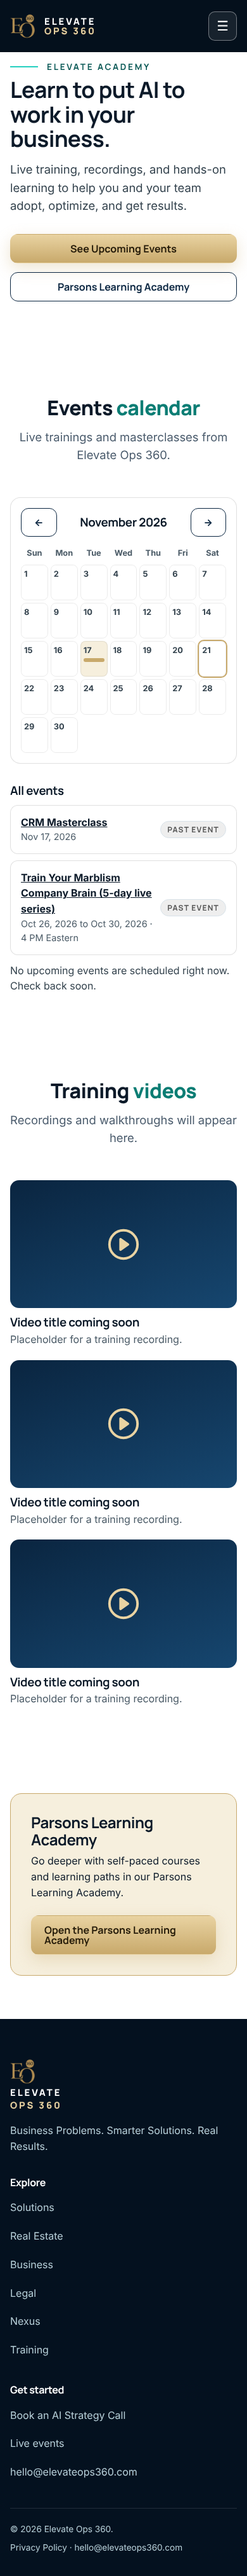
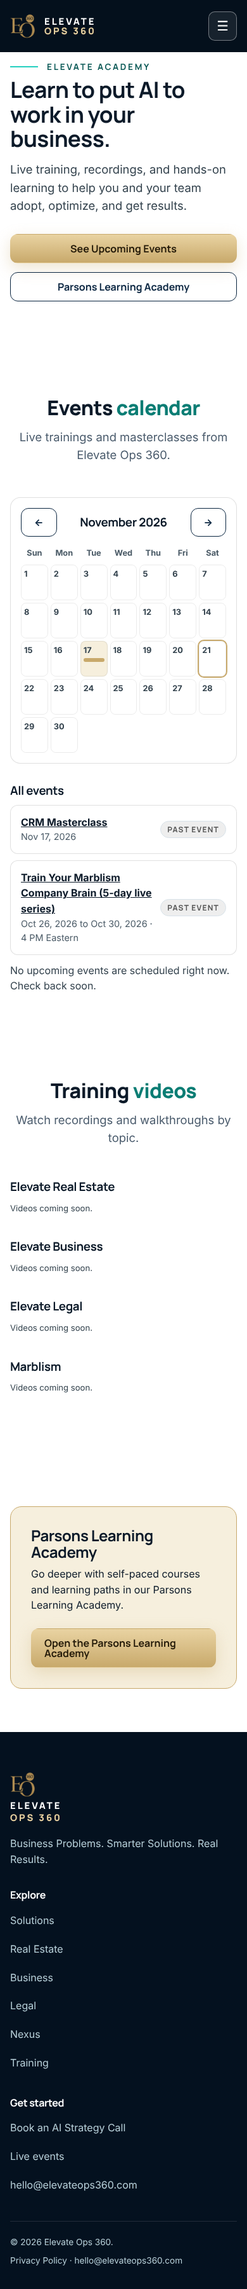
Academy: learn.parsonsregroup.com link, JSON-driven YouTube video sections, content helper page
Claude-Session: https://claude.ai/code/session_01FHNhpcz1vSgsRca8SZZPd6

diff --git a/academy/admin/index.html b/academy/admin/index.html
@@ -1,0 +1,87 @@
+<!DOCTYPE html>
+<html lang="en">
+<head>
+<meta charset="utf-8">
+<meta name="viewport" content="width=device-width, initial-scale=1">
+<title>Academy Content Helper | Elevate Ops 360</title>
+<meta name="description" content="Events calendar, training videos, and a link to the Parsons Learning Academy from Elevate Ops 360.">
+<meta name="robots" content="noindex,nofollow">
+<link rel="preload" href="/fonts/manrope-latin-wght-normal.woff2" as="font" type="font/woff2" crossorigin>
+<link rel="preload" href="/fonts/inter-latin-wght-normal.woff2" as="font" type="font/woff2" crossorigin>
+<link rel="stylesheet" href="/styles.css">
+<link rel="stylesheet" href="/qa-fixes.css">
+<link rel="stylesheet" href="/hybrid.css">
+<link rel="stylesheet" href="/solutions.css">
+<link rel="stylesheet" href="/academy/academy.css">
+<link rel="icon" type="image/png" href="/assets/favicon-official-64.png">
+</head>
+<body>
+<!-- Icon sprite -->
+<svg width="0" height="0" style="position:absolute" aria-hidden="true">
+  <symbol id="i-user" viewBox="0 0 24 24"><circle cx="9" cy="8" r="3.5"/><path d="M2.5 20c.6-3.6 3.3-5.5 6.5-5.5s5.9 1.9 6.5 5.5M18 8v6M15 11h6"/></symbol>
+  <symbol id="i-chat" viewBox="0 0 24 24"><path d="M4 5h16v11H10l-4.5 3.5V16H4z"/><path d="M8.5 10.5h.01M12 10.5h.01M15.5 10.5h.01"/></symbol>
+  <symbol id="i-layers" viewBox="0 0 24 24"><path d="m12 3 9 4.5-9 4.5-9-4.5z"/><path d="m3 12 9 4.5 9-4.5M3 16.5 12 21l9-4.5"/></symbol>
+  <symbol id="i-cal" viewBox="0 0 24 24"><rect x="3.5" y="5" width="17" height="15" rx="2.5"/><path d="M3.5 10h17M8 3v4M16 3v4M9 15l2.2 2.2L15.5 13"/></symbol>
+  <symbol id="i-bolt" viewBox="0 0 24 24"><path d="M13 2.5 5 13.5h6l-1 8 8-11h-6z"/></symbol>
+  <symbol id="i-chart" viewBox="0 0 24 24"><path d="M4 20V10M10 20V4M16 20v-8M22 20H2"/></symbol>
+  <symbol id="i-brief" viewBox="0 0 24 24"><rect x="3" y="7" width="18" height="13" rx="2.5"/><path d="M8.5 7V5a1.5 1.5 0 0 1 1.5-1.5h4A1.5 1.5 0 0 1 15.5 5v2M3 13h18"/></symbol>
+  <symbol id="i-home" viewBox="0 0 24 24"><path d="m3 11 9-7.5 9 7.5M5.5 9.5V20h13V9.5M10 20v-6h4v6"/></symbol>
+  <symbol id="i-scale" viewBox="0 0 24 24"><path d="M12 3v18M7 21h10M5 7h14M5 7l-3 7a3.5 3.5 0 0 0 6 0zM19 7l-3 7a3.5 3.5 0 0 0 6 0z"/></symbol>
+  <symbol id="i-cap" viewBox="0 0 24 24"><path d="m2 9 10-5 10 5-10 5z"/><path d="M6 11.5V16c0 1.4 2.7 3 6 3s6-1.6 6-3v-4.5M22 9v6"/></symbol>
+  <symbol id="i-play" viewBox="0 0 24 24"><circle cx="12" cy="12" r="9.5"/><path d="m10 8.5 5 3.5-5 3.5z" fill="currentColor"/></symbol>
+  <symbol id="i-arrow" viewBox="0 0 24 24"><path d="M4 12h16M14 6l6 6-6 6"/></symbol>
+  <symbol id="i-check" viewBox="0 0 24 24"><circle cx="12" cy="12" r="9.5"/><path d="m8 12.3 2.8 2.8L16 9.5"/></symbol>
+  <symbol id="i-grid" viewBox="0 0 24 24"><rect x="3.5" y="3.5" width="7" height="7" rx="1.5"/><rect x="13.5" y="3.5" width="7" height="7" rx="1.5"/><rect x="3.5" y="13.5" width="7" height="7" rx="1.5"/><rect x="13.5" y="13.5" width="7" height="7" rx="1.5"/></symbol>
+  <symbol id="i-funnel" viewBox="0 0 24 24"><path d="M3 4h18l-7 8.5V20l-4-2v-5.5z"/></symbol>
+  <symbol id="i-gear" viewBox="0 0 24 24"><circle cx="12" cy="12" r="3.2"/><path d="M12 2.5v3M12 18.5v3M2.5 12h3M18.5 12h3M5.3 5.3l2.1 2.1M16.6 16.6l2.1 2.1M18.7 5.3l-2.1 2.1M7.4 16.6l-2.1 2.1"/></symbol>
+  <symbol id="i-bot" viewBox="0 0 24 24"><rect x="4" y="8" width="16" height="11" rx="3"/><path d="M12 4v4M9 13.5h.01M15 13.5h.01M9 16.5h6"/></symbol>
+  <symbol id="i-plug" viewBox="0 0 24 24"><path d="M9 3v5M15 3v5M6 8h12v3a6 6 0 0 1-12 0zM12 17v4"/></symbol>
+  <symbol id="i-doc" viewBox="0 0 24 24"><path d="M6 3h8l4 4v14H6z"/><path d="M14 3v4h4M9 12h6M9 16h6"/></symbol>
+  <symbol id="i-search" viewBox="0 0 24 24"><circle cx="11" cy="11" r="6.5"/><path d="m16 16 5 5"/></symbol>
+  <symbol id="i-people" viewBox="0 0 24 24"><circle cx="9" cy="8" r="3.2"/><circle cx="17" cy="9.5" r="2.5"/><path d="M2.5 20c.5-3.4 3-5.2 6.5-5.2s6 1.8 6.5 5.2M16 14.6c2.6.1 4.6 1.5 5 4.4"/></symbol>
+  <symbol id="i-shield" viewBox="0 0 24 24"><path d="M12 3 4.5 6v6c0 4.6 3.2 7.8 7.5 9 4.3-1.2 7.5-4.4 7.5-9V6z"/><path d="m9 12 2.2 2.2L15.5 10"/></symbol>
+</svg>
+
+
+<a class="skip" href="#main">Skip to main content</a>
+<header class="site-header">
+  <nav class="wrap nav" aria-label="Primary">
+    <a class="brand" href="/" aria-label="Elevate Ops 360 home"><img src="/assets/mark-official-108.png" alt="" width="54" height="52"><span class="brand-text">Elevate <span>Ops 360</span></span></a>
+    <button class="menu-btn" aria-expanded="false" aria-controls="primary-nav" aria-label="Open menu">&#9776;</button>
+    <ul class="nav-links" id="primary-nav">
+      <li><a href="/solutions/">Solutions</a></li>
+      <li><a href="/solutions/real-estate/">Real Estate</a></li>
+      <li><a href="/solutions/business/">Business</a></li>
+      <li><a href="/solutions/legal/">Legal</a></li>
+      <li><a href="/#nexus">Nexus</a></li>
+      <li><a href="/academy/">Academy</a></li>
+      <li class="nav-cta-m"><a class="btn btn-gold btn-sm" href="https://calendly.com/sherriparsonsrealestate/elevate-ai-onboarding">Book an AI Strategy Call</a></li>
+    </ul>
+    <a class="btn btn-gold nav-cta" href="https://calendly.com/sherriparsonsrealestate/elevate-ai-onboarding"><svg class="icon"><use href="#i-cal"/></svg>Book an AI Strategy Call</a>
+  </nav>
+</header>
+<main id="main" tabindex="-1"><section class="sec adm"><div class="wrap">
+<h1>Academy content helper</h1>
+<p>Add events and YouTube videos here, then copy the result into <code>academy/content.json</code> (GitHub: open the file, click the pencil, paste, commit). The Academy page updates after the site redeploys. This page does not save anything by itself.</p>
+<div class="box"><h2>Add a video</h2>
+<label for="vs">Section</label><select id="vs"></select>
+<label for="vu">YouTube link</label><input id="vu" placeholder="https://www.youtube.com/watch?v=...">
+<label for="vt">Title</label><input id="vt"><label for="vd">Short description (optional)</label><input id="vd">
+<p><button type="button" class="btn btn-gold" id="addv">Add video</button></p></div>
+<div class="box"><h2>Add an event</h2>
+<label for="et">Title</label><input id="et"><div class="row"><div><label for="ed">Start date</label><input id="ed" type="date"></div><div><label for="ee">End date (optional)</label><input id="ee" type="date"></div></div>
+<div class="row"><div><label for="etime">Time (optional)</label><input id="etime" placeholder="4 PM Eastern"></div><div><label for="eu">Link</label><input id="eu" placeholder="/live/ or https://..."></div></div>
+<p><button type="button" class="btn btn-gold" id="adde">Add event</button></p></div>
+<div class="box"><h2>content.json</h2><p>Starts from the current live content. <button type="button" class="btn btn-ghost btn-sm" id="copy">Copy</button> <span id="msg" role="status"></span></p><label for="out" class="sr-only">content.json</label><textarea id="out"></textarea></div>
+</div></section></main>
+<footer class="foot"><div class="wrap"><div class="foot-grid"><div><a class="brand" href="/"><img src="/assets/mark-official-108.png" alt="" width="54" height="52"><span class="brand-text">Elevate <span>Ops 360</span></span></a><p style="margin-top:14px;max-width:34ch">Business Problems. Smarter Solutions. Real Results.</p></div><div><h3>Explore</h3><ul><li><a href="/solutions/">Solutions</a></li><li><a href="/solutions/real-estate/">Real Estate</a></li><li><a href="/solutions/business/">Business</a></li><li><a href="/solutions/legal/">Legal</a></li><li><a href="/nexus/">Nexus</a></li><li><a href="/trainyourbrain/">Training</a></li></ul></div><div><h3>Get started</h3><ul><li><a href="https://calendly.com/sherriparsonsrealestate/elevate-ai-onboarding">Book an AI Strategy Call</a></li><li><a href="/live/">Live events</a></li><li><a href="mailto:hello@elevateops360.com">hello@elevateops360.com</a></li></ul></div></div><div class="legal"><span>&copy; 2026 Elevate Ops 360.</span><span><a href="/privacy.html">Privacy Policy</a> &middot; <a href="mailto:hello@elevateops360.com">hello@elevateops360.com</a></span></div></div></footer>
+<script>
+(function(){var C={events:[],videoSections:[]},out=document.getElementById("out"),vs=document.getElementById("vs");
+function show(){out.value=JSON.stringify(C,null,1);}
+fetch("/academy/content.json").then(function(r){return r.json();}).then(function(c){C=c;C.events=C.events||[];C.videoSections=C.videoSections||[];C.videoSections.forEach(function(s,i){var o=document.createElement("option");o.value=i;o.textContent=s.title;vs.appendChild(o);});show();});
+document.getElementById("addv").onclick=function(){var u=document.getElementById("vu").value.trim();if(!/youtu/.test(u)){alert("Paste a YouTube link.");return;}C.videoSections[+vs.value].videos.push({url:u,title:document.getElementById("vt").value.trim(),description:document.getElementById("vd").value.trim()});show();["vu","vt","vd"].forEach(function(i){document.getElementById(i).value="";});};
+document.getElementById("adde").onclick=function(){var t=document.getElementById("et").value.trim(),d=document.getElementById("ed").value;if(!t||!d){alert("Title and start date are required.");return;}var e={title:t,date:d,time:document.getElementById("etime").value.trim(),url:document.getElementById("eu").value.trim()||"/academy/"};var en=document.getElementById("ee").value;if(en)e.end=en;C.events.push(e);show();};
+document.getElementById("copy").onclick=function(){out.select();document.execCommand("copy");document.getElementById("msg").textContent="Copied.";};
+var b=document.querySelector('.menu-btn'),n=document.getElementById('primary-nav');if(b&&n)b.addEventListener('click',function(){var o=n.classList.toggle('open');b.setAttribute('aria-expanded',o);});
+})();
+</script></body></html>

diff --git a/academy/index.html b/academy/index.html
@@ -92,12 +92,8 @@
 
 <section class="sec" id="videos" aria-labelledby="vid-h">
   <div class="wrap">
-    <div class="sec-head"><h2 id="vid-h">Training <span>videos</span></h2><p>Recordings and walkthroughs will appear here.</p></div>
-    <div class="vid-grid">
-      <article class="vid"><div class="vid-ph" role="img" aria-label="Video placeholder"><svg class="icon" aria-hidden="true"><use href="#i-play"/></svg></div><h3>Video title coming soon</h3><p>Placeholder for a training recording.</p></article>
-      <article class="vid"><div class="vid-ph" role="img" aria-label="Video placeholder"><svg class="icon" aria-hidden="true"><use href="#i-play"/></svg></div><h3>Video title coming soon</h3><p>Placeholder for a training recording.</p></article>
-      <article class="vid"><div class="vid-ph" role="img" aria-label="Video placeholder"><svg class="icon" aria-hidden="true"><use href="#i-play"/></svg></div><h3>Video title coming soon</h3><p>Placeholder for a training recording.</p></article>
-    </div>
+    <div class="sec-head"><h2 id="vid-h">Training <span>videos</span></h2><p>Watch recordings and walkthroughs by topic.</p></div>
+    <div id="vid-sections"></div>
   </div>
 </section>
 
@@ -105,7 +101,7 @@
   <div class="wrap">
     <div class="pla">
       <div><h2 id="pla-h">Parsons Learning <span>Academy</span></h2><p>Go deeper with self-paced courses and learning paths in our Parsons Learning Academy.</p></div>
-      <a class="btn btn-gold" id="pla-link" href="https://train.elevateops360.com" target="_blank" rel="noopener">Open the Parsons Learning Academy<span class="sr-only"> (opens in a new tab)</span></a>
+      <a class="btn btn-gold" id="pla-link" href="https://learn.parsonsregroup.com" target="_blank" rel="noopener">Open the Parsons Learning Academy<span class="sr-only"> (opens in a new tab)</span></a>
     </div>
   </div>
 </section>
@@ -113,11 +109,7 @@
 <footer class="foot"><div class="wrap"><div class="foot-grid"><div><a class="brand" href="/"><img src="/assets/mark-official-108.png" alt="" width="54" height="52"><span class="brand-text">Elevate <span>Ops 360</span></span></a><p style="margin-top:14px;max-width:34ch">Business Problems. Smarter Solutions. Real Results.</p></div><div><h3>Explore</h3><ul><li><a href="/solutions/">Solutions</a></li><li><a href="/solutions/real-estate/">Real Estate</a></li><li><a href="/solutions/business/">Business</a></li><li><a href="/solutions/legal/">Legal</a></li><li><a href="/nexus/">Nexus</a></li><li><a href="/trainyourbrain/">Training</a></li></ul></div><div><h3>Get started</h3><ul><li><a href="https://calendly.com/sherriparsonsrealestate/elevate-ai-onboarding">Book an AI Strategy Call</a></li><li><a href="/live/">Live events</a></li><li><a href="mailto:hello@elevateops360.com">hello@elevateops360.com</a></li></ul></div></div><div class="legal"><span>&copy; 2026 Elevate Ops 360.</span><span><a href="/privacy.html">Privacy Policy</a> &middot; <a href="mailto:hello@elevateops360.com">hello@elevateops360.com</a></span></div></div></footer>
 <script>
 (function(){
-/* Add events here. date = YYYY-MM-DD (end optional). */
-var EVENTS=[
- {title:"Train Your Marblism Company Brain (5-day live series)",date:"2026-10-26",end:"2026-10-30",time:"4 PM Eastern",url:"/trainyourbrain/"},
- {title:"CRM Masterclass",date:"2026-11-17",time:"",url:"/live/"}
-];
+var EVENTS=[];
 var MN=["January","February","March","April","May","June","July","August","September","October","November","December"];
 var today=new Date(),y=today.getFullYear(),m=today.getMonth();
 function pd(s){var a=s.split("-");return new Date(+a[0],+a[1]-1,+a[2]);}
@@ -139,7 +131,7 @@ function render(){
 }
 document.getElementById("cal-prev").onclick=function(){m--;if(m<0){m=11;y--;}render();};
 document.getElementById("cal-next").onclick=function(){m++;if(m>11){m=0;y++;}render();};
-render();
+function init(){render();
 var ul=document.getElementById("ev-list"),now=new Date(today.getFullYear(),today.getMonth(),today.getDate());
 var sorted=EVENTS.slice().sort(function(a,b){return pd(b.date)-pd(a.date);});
 var upcoming=0;
@@ -153,7 +145,28 @@ sorted.forEach(function(e){
  li.querySelector(".tag").textContent=past?"Past event":"Upcoming";
  ul.appendChild(li);
 });
-if(!upcoming)document.getElementById("ev-empty").hidden=false;
+if(!upcoming)document.getElementById("ev-empty").hidden=false;}
+function ytId(u){var m=String(u||"").match(/(?:youtu\.be\/|v=|embed\/|shorts\/)([A-Za-z0-9_-]{11})/);return m?m[1]:"";}
+function renderVideos(secs){
+ var root=document.getElementById("vid-sections");
+ secs.forEach(function(sec){
+  var w=document.createElement("div");w.className="vsec";
+  var h=document.createElement("h3");h.textContent=sec.title;w.appendChild(h);
+  var vids=(sec.videos||[]).filter(function(v){return ytId(v.url);});
+  if(!vids.length){var p=document.createElement("p");p.className="fine vnone";p.textContent="Videos coming soon.";w.appendChild(p);}
+  else{var g=document.createElement("div");g.className="vid-grid";
+   vids.forEach(function(v){var id=ytId(v.url),t=v.title||"Watch video";
+    var art=document.createElement("article");art.className="vid";
+    var btn=document.createElement("button");btn.type="button";btn.className="vid-ph yt";btn.setAttribute("aria-label","Play video: "+t);
+    btn.style.backgroundImage="url(https://i.ytimg.com/vi/"+id+"/hqdefault.jpg)";
+    btn.innerHTML='<svg class="icon" aria-hidden="true"><use href="#i-play"/></svg>';
+    btn.onclick=function(){var f=document.createElement("iframe");f.src="https://www.youtube-nocookie.com/embed/"+id+"?autoplay=1&rel=0";f.title=t;f.allow="autoplay; encrypted-media; picture-in-picture";f.allowFullscreen=true;f.className="vid-ph";btn.replaceWith(f);};
+    var h3=document.createElement("h4");h3.textContent=t;art.appendChild(btn);art.appendChild(h3);
+    if(v.description){var d=document.createElement("p");d.textContent=v.description;art.appendChild(d);}
+    g.appendChild(art);});w.appendChild(g);}
+  root.appendChild(w);});
+}
+fetch("/academy/content.json").then(function(r){return r.json();}).then(function(c){EVENTS=c.events||[];init();renderVideos(c.videoSections||[]);}).catch(function(){init();document.getElementById("vid-sections").innerHTML='<p class="fine">Videos are coming soon.</p>';});
 var b=document.querySelector('.menu-btn'),n=document.getElementById('primary-nav');
 if(b&&n)b.addEventListener('click',function(){var o=n.classList.toggle('open');b.setAttribute('aria-expanded',o);b.setAttribute('aria-label',o?'Close menu':'Open menu');});
 })();

diff --git a/academy/academy.css b/academy/academy.css
@@ -17,3 +17,7 @@
 @media(max-width:760px){.vid-grid{grid-template-columns:1fr}.cal-d{min-height:56px}.cal-e{font-size:0;height:6px;background:#c8a96b;border-radius:3px}}
 .ac-hero{padding:96px 0 56px!important}.ac-hero .btn-ghost,.cal .btn-ghost{color:#0a2540;border-color:#0a2540;background:transparent}.ac-hero .lede{font-size:1.15rem;color:#33424d}
 .ac-hero .eyebrow{color:#0b5a57}
+.vsec{margin-bottom:40px}.vsec h3{margin:0 0 14px}.vnone{color:#33424d}
+button.vid-ph{width:100%;border:0;cursor:pointer;background-size:cover;background-position:center}iframe.vid-ph{width:100%;border:0;display:block}
+.vid h4{margin:12px 0 4px;font-size:1.05rem}
+.adm textarea{width:100%;min-height:260px;font:13px/1.4 monospace}.adm label{display:block;font-weight:700;margin:14px 0 4px}.adm input,.adm select{width:100%;padding:10px;border:1px solid #9aa8b2;border-radius:8px;font:inherit}.adm .row{display:grid;grid-template-columns:1fr 1fr;gap:12px}.adm .box{border:1px solid rgba(0,0,0,.12);border-radius:14px;padding:20px;margin-bottom:24px;background:#fff}
